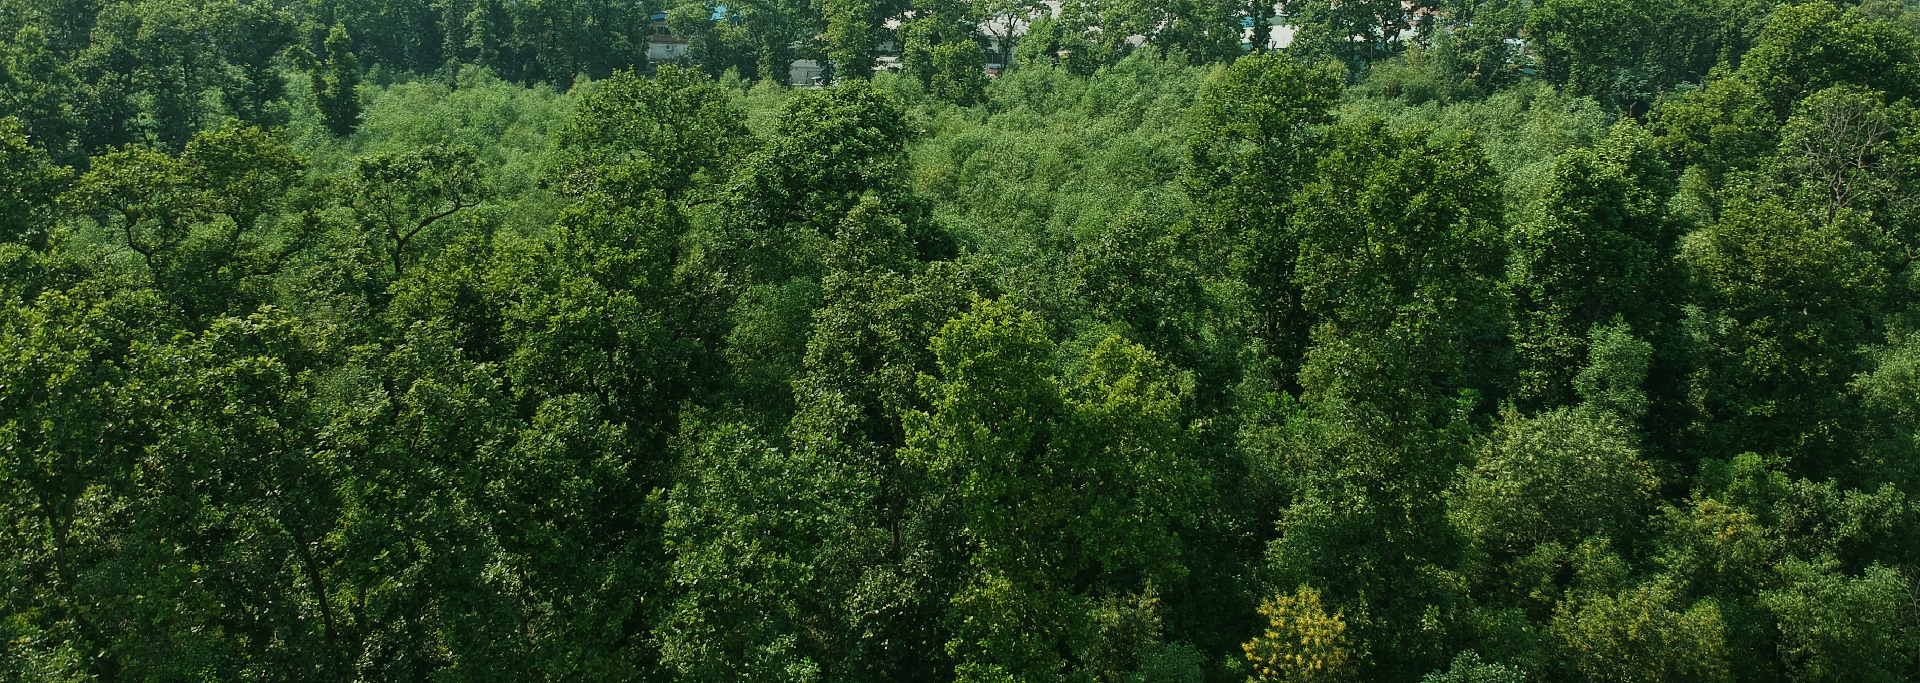
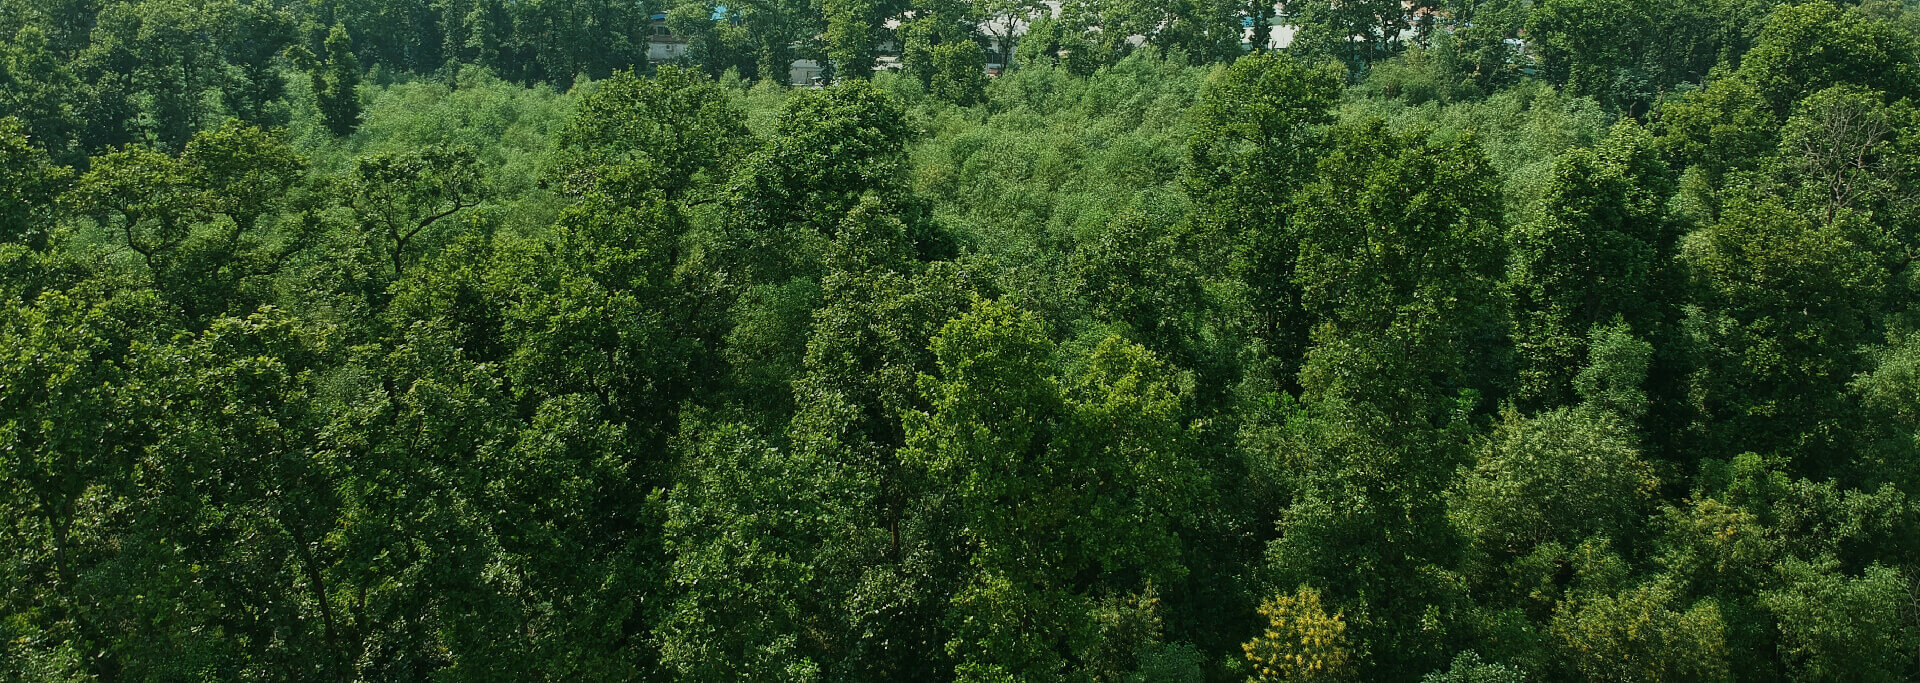
Images optimized

diff --git a/src/components/OnlineBooking/ProjectGallery.tsx b/src/components/OnlineBooking/ProjectGallery.tsx
@@ -37,8 +37,8 @@ const ProjectGallery = () => {
           <div className="gallery_img ">
             <img
               className="logoimg"
-              // src={"//d5twn4m6.cdn.imgeng.in" + src4}
-              src={process.env.PUBLIC_URL + "//d5twn4m6.cdn.imgeng.in/images/o1.jpg"}
+              // src={"" + src4}
+              src={process.env.PUBLIC_URL + "/images/o1.jpg"}
               alt=""
               // style={{
               //   filter: blur4 ? "blur(20px)" : "none",
@@ -49,8 +49,8 @@ const ProjectGallery = () => {
           <div className="gallery_img">
             <img
               className="logoimg"
-              // src={"//d5twn4m6.cdn.imgeng.in" + src5}
-              src={process.env.PUBLIC_URL + "//d5twn4m6.cdn.imgeng.in/images/o2.jpg"}
+              // src={"" + src5}
+              src={process.env.PUBLIC_URL + "/images/o2.jpg"}
               alt=""
               // style={{
               //   filter: blur5 ? "blur(20px)" : "none",
@@ -61,8 +61,8 @@ const ProjectGallery = () => {
           <div className="gallery_img">
             <img
               className="logoimg"
-              // src={"//d5twn4m6.cdn.imgeng.in" + src6}
-              src={process.env.PUBLIC_URL + "//d5twn4m6.cdn.imgeng.in/images/o3.jpg"}
+              // src={"" + src6}
+              src={process.env.PUBLIC_URL + "/images/o3.jpg"}
               alt=""
               // style={{
               //   filter: blur6 ? "blur(20px)" : "none",
@@ -78,7 +78,7 @@ const ProjectGallery = () => {
               <img
                 className="logoimg"
                 // src={src4}
-                src={process.env.PUBLIC_URL + "//d5twn4m6.cdn.imgeng.in/images/o1.jpg"}
+                src={process.env.PUBLIC_URL + "/images/o1.jpg"}
                 alt=""
                 // style={{
                 //   filter: blur4 ? "blur(20px)" : "none",
@@ -89,8 +89,8 @@ const ProjectGallery = () => {
             <div className="gallery_img">
               <img
                 className="logoimg"
-                // src={"//d5twn4m6.cdn.imgeng.in" + src5}
-                src={process.env.PUBLIC_URL + "//d5twn4m6.cdn.imgeng.in/images/o2.jpg"}
+                // src={"" + src5}
+                src={process.env.PUBLIC_URL + "/images/o2.jpg"}
                 alt=""
                 // style={{
                 //   filter: blur5 ? "blur(20px)" : "none",
@@ -101,8 +101,8 @@ const ProjectGallery = () => {
             <div className="gallery_img">
               <img
                 className="logoimg"
-                // src={"//d5twn4m6.cdn.imgeng.in" + src6}
-                src={process.env.PUBLIC_URL + "//d5twn4m6.cdn.imgeng.in/images/o3.jpg"}
+                // src={"" + src6}
+                src={process.env.PUBLIC_URL + "/images/o3.jpg"}
                 alt=""
                 // style={{
                 //   filter: blur6 ? "blur(20px)" : "none",

diff --git a/src/components/Homepage/1_Gallery.tsx b/src/components/Homepage/1_Gallery.tsx
@@ -49,9 +49,9 @@ const Gallery = () => {
               </div>
               <img
                 className="logoimg"
-                // src={"//d5twn4m6.cdn.imgeng.in" + src0}
-                src={process.env.PUBLIC_URL + "//d5twn4m6.cdn.imgeng.in/images/h1.jpg"}
-                // src={process.env.PUBLIC_URL + "/images/h1.jpg"}
+                // src={"" + src0}
+                src={process.env.PUBLIC_URL + "/images/h1.jpg"}
+                // src={process.env.PUBLIC_URL + "//d5twn4m6.cdn.imgeng.in/images/h1.jpg"}
                 alt=""
                 // style={{
                 //   filter: blur0 ? "blur(20px)" : "none",
@@ -84,8 +84,8 @@ const Gallery = () => {
               </div>
               <img
                 className="logoimg"
-                // src={"//d5twn4m6.cdn.imgeng.in" + src1}
-                src={process.env.PUBLIC_URL + "//d5twn4m6.cdn.imgeng.in/images/h4.jpg"}
+                // src={"" + src1}
+                src={process.env.PUBLIC_URL + "/images/h4.jpg"}
                 // src={process.env.PUBLIC_URL + "/images/h1.jpg"}
                 alt=""
                 // style={{
@@ -121,8 +121,8 @@ const Gallery = () => {
               </div>
               <img
                 className="logoimg"
-                // src={"//d5twn4m6.cdn.imgeng.in" + src2}
-                src={process.env.PUBLIC_URL + "//d5twn4m6.cdn.imgeng.in/images/o2.jpg"}
+                // src={"" + src2}
+                src={process.env.PUBLIC_URL + "/images/o2.jpg"}
                 // src={process.env.PUBLIC_URL + "/images/h1.jpg"}
                 alt=""
                 // style={{
@@ -160,8 +160,8 @@ const Gallery = () => {
               </div>
               <img
                 className="logoimg"
-                // src={"//d5twn4m6.cdn.imgeng.in" + src3}
-                src={process.env.PUBLIC_URL + "//d5twn4m6.cdn.imgeng.in/images/o3.jpg"}
+                // src={"" + src3}
+                src={process.env.PUBLIC_URL + "/images/o3.jpg"}
                 // src={process.env.PUBLIC_URL + "/images/h1.jpg"}
                 alt=""
                 // style={{

diff --git a/src/components/OurProject/booking.scss b/src/components/OurProject/booking.scss
@@ -77,22 +77,22 @@ $sections1: (
     0%,
     20%,
     100% {
-      background: url("//d5twn4m6.cdn.imgeng.in/images/p1.jpg") #{$bg}#{"%"} 0%;
+      background: url("./p1.jpg") #{$bg}#{"%"} 0%;
       -webkit-clip-path: polygon($clip-01);
     }
     25%,
     45% {
-      background: url("//d5twn4m6.cdn.imgeng.in/images/p2.jpg") #{$bg}#{"%"} 0%;
+      background: url("./p2.jpg") #{$bg}#{"%"} 0%;
       -webkit-clip-path: polygon($clip-02);
     }
     50%,
     70% {
-      background: url("//d5twn4m6.cdn.imgeng.in/images/p3.jpg") #{$bg}#{"%"} 0%;
+      background: url("./p3.jpg") #{$bg}#{"%"} 0%;
       -webkit-clip-path: polygon($clip-03);
     }
     75%,
     95% {
-      background: url("//d5twn4m6.cdn.imgeng.in/images/p3.jpg") #{$bg}#{"%"} 0%;
+      background: url("./p3.jpg") #{$bg}#{"%"} 0%;
       -webkit-clip-path: polygon($clip-04);
     }
   }

diff --git a/src/components/OurProject/OurProject.tsx b/src/components/OurProject/OurProject.tsx
@@ -45,7 +45,7 @@ const OurProject = () => {
                 duration={250}
               >
                 <img
-                  src={process.env.PUBLIC_URL + "//d5twn4m6.cdn.imgeng.in/images/DownArrow.png"}
+                  src={process.env.PUBLIC_URL + "/images/DownArrow.png"}
                   alt=""
                 />
               </Link>
@@ -110,7 +110,7 @@ const OurProject = () => {
                 duration={250}
               >
                 <img
-                  src={process.env.PUBLIC_URL + "//d5twn4m6.cdn.imgeng.in/images/DownArrow.png"}
+                  src={process.env.PUBLIC_URL + "/images/DownArrow.png"}
                   alt=""
                   // style={{
                   //   filter: blur ? "blur(20px)" : "none",

diff --git a/src/components/Homepage/Overview.tsx b/src/components/Homepage/Overview.tsx
@@ -36,7 +36,7 @@ const Overview = () => {
       <div>
         <img
           className="overviewimg"
-          src={process.env.PUBLIC_URL + "//d5twn4m6.cdn.imgeng.in/images/overview.jpg"}
+          src={process.env.PUBLIC_URL + "/images/overview.webp"}
           alt="Homeland-topview"
         />
       </div>
